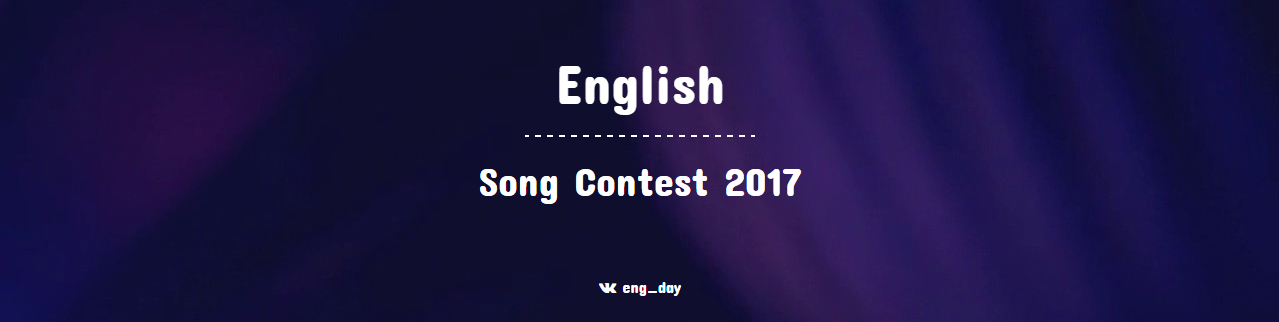
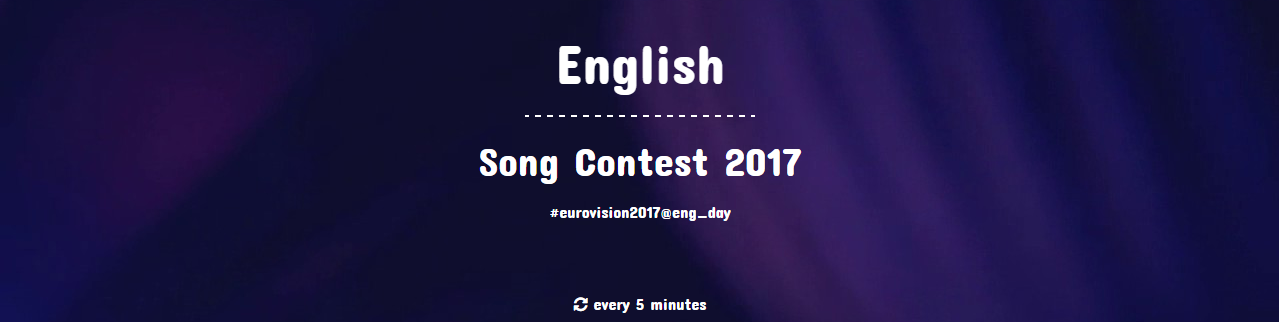
Update Eurovision, small fix

diff --git a/templates/euro2017/html/index.html b/templates/euro2017/html/index.html
@@ -1,0 +1,23 @@
+<!DOCTYPE html>
+<html>
+<head>
+	<meta charset="UTF-8">
+	<title>EUROVISION</title>
+
+    <link rel="stylesheet" href="https://fonts.googleapis.com/css?family=Concert+One">
+    <link rel="stylesheet" href="https://fonts.googleapis.com/css?family=Shadows+Into+Light">
+
+    <link rel="stylesheet" href="https://maxcdn.bootstrapcdn.com/font-awesome/4.7.0/css/font-awesome.min.css">
+	<link rel="stylesheet" href="style.css">
+</head>
+<body>
+
+<div class="fon">
+	<div class="a a1">English</div><br>
+	<div class="a a2">Song Contest 2017</div><br>
+	<div class="a a3">#eurovision2017@eng_day</div><br>
+	<div class="a a4"><i class="fa fa-refresh" aria-hidden="true"></i> every 5 minutes</div>
+</div>
+
+</body>
+</html>

diff --git a/templates/euro2017/html/style.css b/templates/euro2017/html/style.css
@@ -1,0 +1,34 @@
+html, body, .fon {
+    width: 100%;
+    height: 100%;
+    padding: 0;
+    margin: 0;
+}
+
+.fon {
+    background: url(fon.png) no-repeat;
+    text-align: center;
+}
+
+.a {
+    font-family: "Concert One", sans-serif;
+    color: #fff;
+}
+
+.a1 {
+    font-size: 55px;
+    display: inline-block;
+    border-bottom: 2px dashed;
+    padding-top: 30px;
+    padding-bottom: 20px;
+    width: 230px;
+    margin-bottom: 20px;
+}
+
+.a2 {
+    font-size: 40px;
+}
+
+.a4 {
+    margin-top: 55px;
+}

diff --git a/templates/euro2017/Euro.php b/templates/euro2017/Euro.php
@@ -3,6 +3,7 @@
 namespace tmp\euro2017;
 
 use gvk\Web;
+use gvk\vk\VK;
 use gvk\vk\methods\Polls;
 use gvk\vk\methods\Photos;
 
@@ -10,7 +11,30 @@ class Euro
 {
     const TABLE = 'euro';
 
-    public static function changeHeader($round = null)
+    public static function createPost()
+    {
+        $data = \QB::table(self::TABLE)->where('poll_id', '=', '0')->first();
+
+        $poll = self::createPoll();
+        $message = "&#8505; Country: {$data->country}\n&#10004; Artist: {$data->name}\n&#127925; Song: {$data->song}";
+        VK::wallPost($message . "\n\n" . self::getHashtag(), 'poll-' . G_ID . '_' . $poll->response->id);
+
+        \QB::table(self::TABLE)->where('id', '=', $data->id)->update([
+            'poll_id' => $poll->response->id
+        ]);
+    }
+
+    public static function createPoll()
+    {
+        return Polls::create('Do you like this song?', ['Yes', 'No']);
+    }
+
+    public static function getHashtag()
+    {
+        return '#eurovision2017@' . G_URL;
+    }
+
+    public static function changeHeader($round = 0)
     {
         if ( empty($round) )
             self::generateHeaderFinal( \QB::table(self::TABLE)
@@ -21,9 +45,9 @@ class Euro
             self::generateHeaderSemi( \QB::table(self::TABLE)
                 ->where('round', '=', $round)
                 ->orderBy('rating', 'DESC')
-                ->get() );
+                ->get(), $round );
 
-        self::setNewPhoto();
+        self::setNewPhoto($round);
     }
 
     public static function parsePoll($round = null)
@@ -49,15 +73,19 @@ class Euro
         $tokens = [T_USR, T_USR2, T_USR3];
 
         foreach ($pollIDs as $key => $pollID) {
-            $poll = Polls::getById($pollID->poll_id, $tokens[$key]);
+            $poll = Polls::getById($pollID->poll_id, $tokens[$key % count($tokens)]);
+
+            if ( ! empty($poll->error) )
+                continue;
 
             \QB::table(self::TABLE)->where('id', '=', $pollID->id)->update([
-                'rating' => $poll->response->answers[0]->rate
+                'rating' => empty($poll->response->answers[0]->rate) ? 0 : $poll->response->answers[0]->rate,
+                'time'   => date( 'Y-m-d H:i:s', time() )
             ]);
         }
     }
 
-    public static function generateHeaderSemi($data)
+    public static function generateHeaderSemi($data, $round)
     {
         $fon  = imagecreatefrompng(__DIR__ . '/header/fon.png');
         $count = count($data) / 2;
@@ -79,7 +107,7 @@ class Euro
             self::addText($fon, 25 + $offset, 45 + $li, $data[$i + $count]->rating . '%', true, 12);
         }
 
-        imagepng($fon, __DIR__ . '/header/temp.png');
+        imagepng($fon, __DIR__ . '/header/temp' . $round . '.png');
     }
 
     public static function generateHeaderFinal($data)
@@ -107,13 +135,13 @@ class Euro
         imagecopymerge($fon, $photo, $x, $y, 0, 0, $width, $height, 100);
     }
 
-    public static function setNewPhoto()
+    public static function setNewPhoto($round)
     {
         $uploadURL = Photos::getOwnerCoverPhotoUploadServer(1279, 322);
 
         $upload = Web::request(
             $uploadURL->response->upload_url, true, 'POST',
-            ['photo' => curl_file_create(__DIR__ . '/header/temp.png')]
+            ['photo' => curl_file_create(__DIR__ . '/header/temp' . $round . '.png')]
         );
 
         return Photos::saveOwnerCoverPhoto($upload->hash, $upload->photo);

diff --git a/templates/euro2017/index.php b/templates/euro2017/index.php
@@ -13,6 +13,7 @@ use gvk\vk\methods\Translate;
 
 $m = date('i');
 $d = date('d');
+$h = date('G');
 
 $round = 0;
 switch ($d) {
@@ -20,8 +21,8 @@ switch ($d) {
     case 11: case 12: $round = 2; break;
 }
 
-Euro::changeHeader($round);
 Euro::parsePoll($round);
+Euro::changeHeader($round);
 
 // Basic: 25/50
 if ($m % 30 != 0)
@@ -29,16 +30,16 @@ if ($m % 30 != 0)
 
 if ( $m == 30 )
 {
-    if     ( in_array($h, ['12']) )
-        Learn::createPost(456241870);
-
-    elseif ( in_array($h, ['6', '15']) )
+    if     ( in_array($h, ['6', '15']) )
         Video::createPost();
+
+//    elseif ( in_array($h, ['12']) )
+//        Learn::createPost(456241870);
 
     elseif ( in_array($h, ['4', '13', '19']) )
         Verbs::createPost(20, 456242834);
 
-    elseif ( in_array($h, ['18', '5', '9']) )
+    elseif ( in_array($h, ['5', '9', '18']) )
         Photos::createPost();
 
     elseif ( in_array($h, ['14']) )
@@ -46,13 +47,13 @@ if ( $m == 30 )
 }
 else
 {
-    if     ( in_array($h, ['3', '6', '9', '12', '15']) )
+    if     ( in_array($h, ['3', '6', '9', '12', '15', '18']) )
         Polls::createPost(Polls::TABLE_1, 456240697);
 
-    elseif ( in_array($h, ['4', '7', '10', '13', '16']) )
+    elseif ( in_array($h, ['4', '7', '10', '13', '16', '19']) )
         Polls::createPost(Polls::TABLE_2, 456240698);
 
-    elseif ( in_array($h, ['2', '5', '8', '11', '14']) )
+    elseif ( in_array($h, ['2', '5', '8', '11', '14', '17']) )
         Translate::createPost(20, 456240584);
 }
 

diff --git a/templates/euro2017/init.php b/templates/euro2017/init.php
@@ -9,7 +9,7 @@ QB::query('CREATE TABLE IF NOT EXISTS ' . Euro::TABLE . ' (
     country VARCHAR(255),
     round INT,
     isFinal BOOLEAN,
-    poll_id INT,
+    poll_id INT DEFAULT 0,
     rating INT DEFAULT 0,
     time TIMESTAMP on update CURRENT_TIMESTAMP() NOT NULL DEFAULT CURRENT_TIMESTAMP()
 )');
@@ -22,6 +22,12 @@ QB::table(Euro::TABLE)->insert([
         'round'   => '1'
     ],
     [
+        'name'    => 'Tamara Gachechiladze',
+        'song'    => 'Keep the Faith',
+        'country' => 'Georgia',
+        'round'   => '1'
+    ],
+    [
         'name'    => 'Isaiah',
         'song'    => 'Don\'t Come Easy',
         'country' => 'Australia',
@@ -31,12 +37,6 @@ QB::table(Euro::TABLE)->insert([
         'name'    => 'Lindita',
         'song'    => 'World',
         'country' => 'Albania',
-        'round'   => '1'
-    ],
-    [
-        'name'    => 'Tamara Gachechiladze',
-        'song'    => 'Keep the Faith',
-        'country' => 'Georgia',
         'round'   => '1'
     ],
     [

diff --git a/src/vk/methods/Verbs.php b/src/vk/methods/Verbs.php
@@ -21,7 +21,7 @@ class Verbs
     public static function createPost($count, $photoID = null)
     {
         $data = DB::getDistinctData(self::TABLE, $count);
-        $message = self::SMILE . " Таблица неправильных глаголов\n\n";
+        $message = self::SMILE . " Таблица неправильных глаголов.\n\n";
 
         foreach ($data as $key => $item) {
             $i = $key + 1;

diff --git a/src/vk/methods/Translate.php b/src/vk/methods/Translate.php
@@ -88,7 +88,7 @@ class Translate
     public static function createPost($count, $photoID = null)
     {
         $data = DB::getDistinctData(self::TABLE, $count);
-        $message = self::SMILE . " Перевод английских слов.";
+        $message = self::SMILE . " Перевод английских слов.\n\n";
         $i = 1;
 
         foreach ($data as $item) {

diff --git a/templates/euro2017/btn.php b/templates/euro2017/btn.php
@@ -1,0 +1,9 @@
+<?php
+
+require_once __DIR__ . '/../../configs/defines.php';
+require_once D_ROOT . '/vendor/autoload.php';
+
+$db = require D_ROOT . '/configs/db.php';
+new Pixie\Connection($db['driver'], $db, 'QB');
+
+\tmp\euro2017\Euro::createPost();
